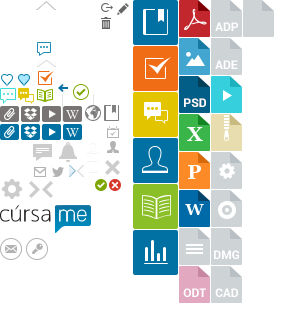
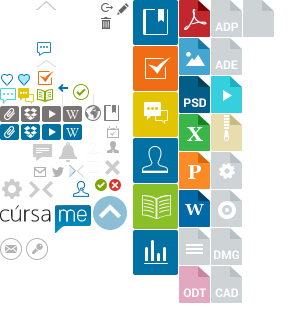
Boton de ayuda en otra posicion

Changed region(s): [[0.2961, 0.5938, 0.4145, 0.7188], [0.2368, 0.5625, 0.2961, 0.625]]

diff --git a/app/assets/stylesheets/global/_skin.scss b/app/assets/stylesheets/global/_skin.scss
@@ -53,6 +53,10 @@ a {
     &:first-child {
       border-left: 1px solid #e6e6e6;        
     }
+
+    &.support-buttton .i {
+      vertical-align: -3px;
+    }
   }
 
   #log_loadding {
@@ -276,17 +280,9 @@ h6 {
   border: 0px!important;
 }
 
-.zenbox_tab__text {
-  background: url('line-dashed-mini.png') no-repeat center center;
-}
-
-.ZenboxTabRight:hover, #zenbox_tab:hover {
-  background: url('/assets/ayuda.png') 70px center no-repeat!important;
-}
-
 /* Scroll to Top Button
 ----------------------------------*/
 #scrollup{
-  opacity:0.3;
-  background: url('/assets/icon_top.png') no-repeat;
+  cursor: pointer;
+  background: url('/assets/pack.png') -93px -196px no-repeat;
 }

diff --git a/app/assets/stylesheets/global/_skeleton.scss b/app/assets/stylesheets/global/_skeleton.scss
@@ -49,6 +49,11 @@
         }
       }
     }
+
+    .support-buttton a {
+      display: block;
+      padding: 15px 10px 17px 10px;
+    }
   }
 
   #log_loadding {
@@ -427,22 +432,13 @@
   }
 }
 
-/* Zenbox Tab
-----------------------------------*/
-#zenbox_tab{
-  top: 38%!important;
-  margin-right: 5px!important;
-}
-
 /* Scroll to Top Button
 ----------------------------------*/
-#scrollup{
-  width:40px;
-  height:40px;
-  opacity:0.3;
-  position:fixed;
-  bottom: 86%;
-  right: 1%;
+#scrollup {
+  width: 34px;
+  height: 34px;
+  position: fixed;
+  top: 60px;
+  right: 6px;
   display:none;
-  cursor: pointer;
 }

diff --git a/app/assets/stylesheets/global/_icons.scss b/app/assets/stylesheets/global/_icons.scss
@@ -70,6 +70,7 @@
 .i-w-cross-9 { width: 9px; height: 9px; background-position: -58px -185px; }
 .i-email { width: 22px; height: 22px; background-position: 0 -238px; }
 .i-password { width: 22px; height: 22px; background-position: -26px -238px; }
+.i-support { width: 17px; height: 16px; background-position: -73px -181px; }
 
 /* File Types Icons */
 .i-file-type-dimension { width: 31px; height: 37px; }
